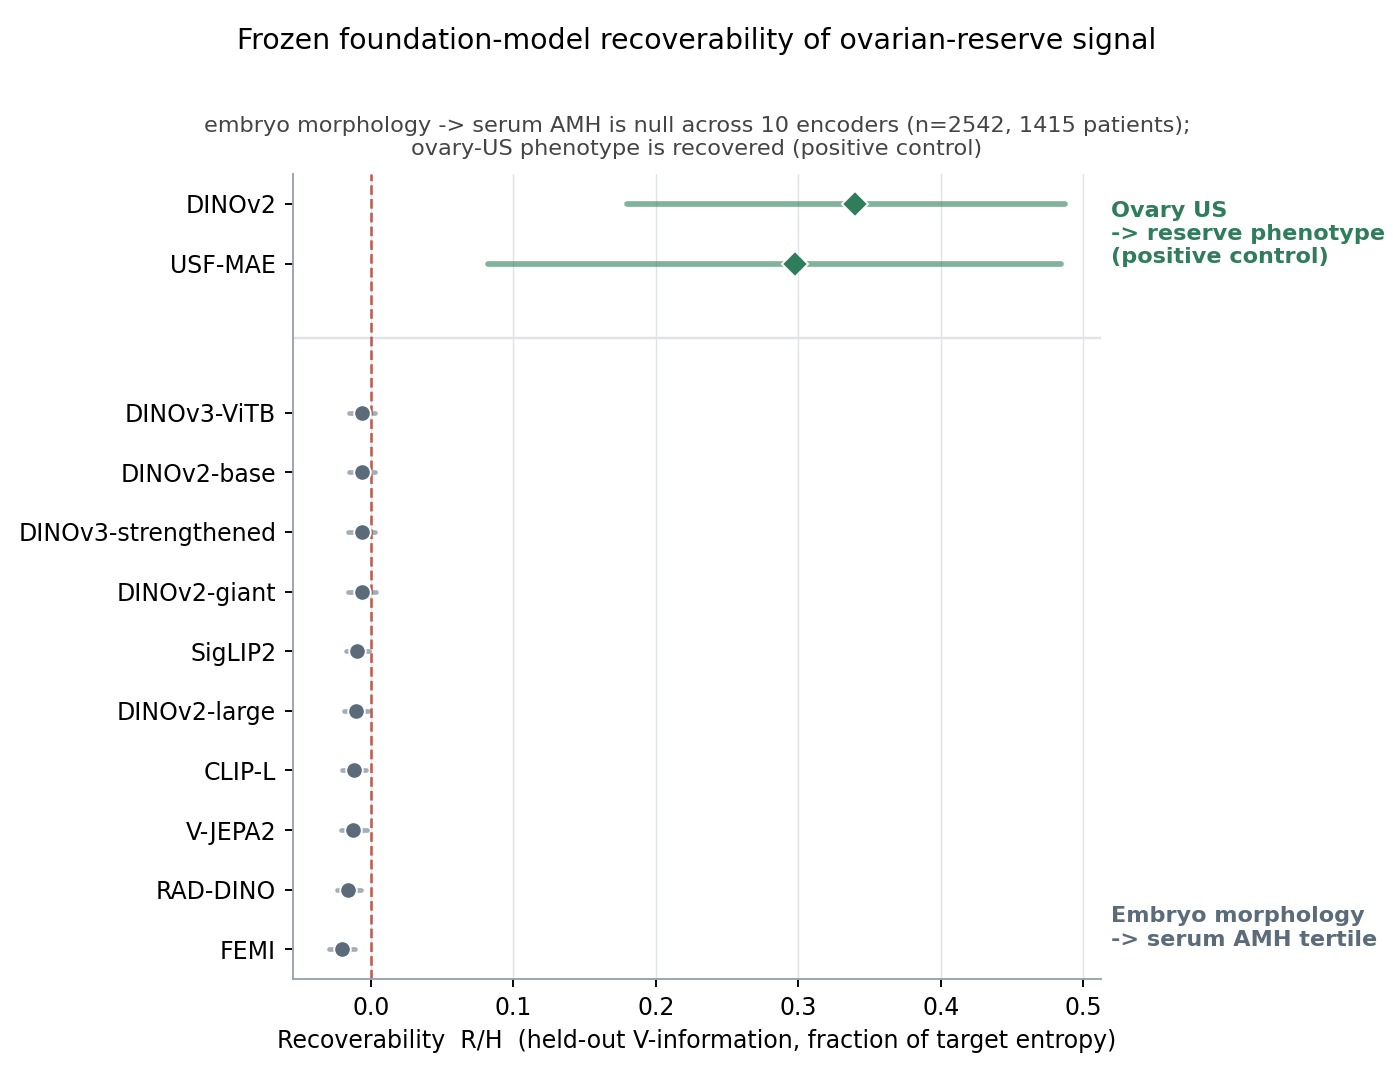
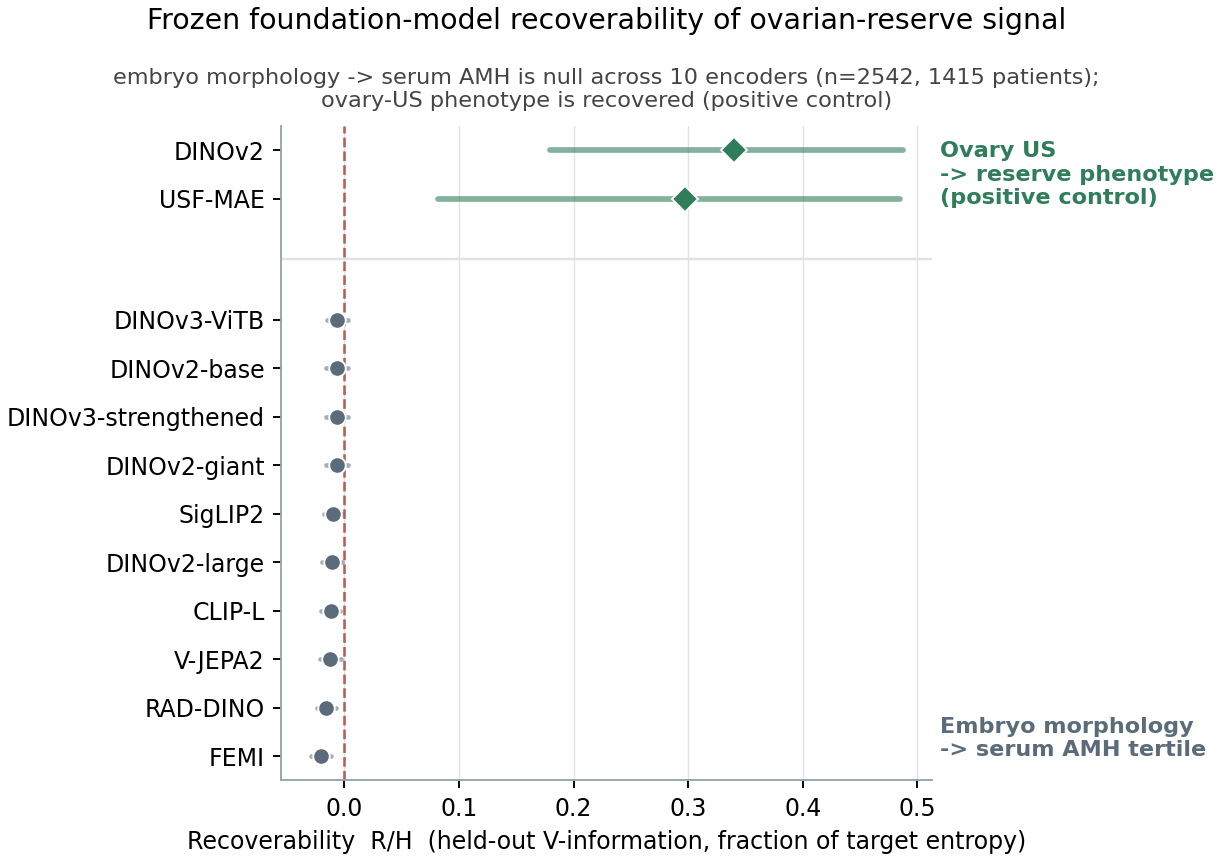
readme: embed result figures (atlas, conditional probing, encoder benchmark, forest) + add pyproject
- README now shows the recoverability atlas + the three key-finding figures inline
  (visualizing the numbers already stated; no new disclosure)
- add minimal pyproject.toml so 'pip install -e .' actually works; fix reserve_audit
  install path (referenced a non-existent local dir)
- update encoder-benchmark figure to current text-width version
- scope note: image-to-serum-AMH not claimed; MS thesis using this audit in preparation

diff --git a/README.md b/README.md
@@ -2,23 +2,43 @@
 
 This repository audits where AMH and ovarian-reserve information is recoverable from frozen foundation-model embeddings across public IVF-related data, including DINOv2, DINOv3, CLIP, USF-MAE, and related encoders. The analyses use predictive V-information probing, conditional age probing, control tasks, MDL summaries, and model-class sufficiency checks with TOST. The contribution is the target-separated audit protocol and the reusable `reserve_audit` package, not a new model.
 
+<p align="center">
+  <img src="figures/figure2_recoverability_atlas.png" width="760"><br>
+  <em>Target-separated recoverability atlas. Held-out fixed-linear recoverability R/H(Y), grouped by registered target kind. Rows are never ranked across target kinds; the ovary-US phenotype node is a phenotype positive control, not an ovary-to-serum-AMH test.</em>
+</p>
+
 ## Key Findings
 
-1. Two single-cohort age-conditioning results separate reserve-relevant and reserve-adjacent settings. In Brigham/Leahy endocrine trajectories, AMH-tertile recoverability changed from marginal `R/H=0.100225` to age-conditioned `R/H=0.087189`; the 2000-shuffle conditional permutation result was `p=0.0004997501249375312`. In Wang embryo morphology, AMH-tertile recoverability changed from marginal `R/H=0.004202` to age-conditioned `R/H=-0.000044`, with `p=0.597015`.
+**1. AMH-tertile recoverability depends on modality and survives age-conditioning only for endocrine trajectories.** In Brigham/Leahy endocrine trajectories, recoverability changed from marginal `R/H=0.100225` to age-conditioned `R/H=0.087189` (2000-shuffle conditional permutation `p=0.0004997501249375312`). In Wang embryo morphology it changed from marginal `R/H=0.004202` to age-conditioned `R/H=-0.000044` (`p=0.597015`).
 
-2. The same frozen-encoder pipeline recovers an ovary-US phenotype positive control: DINOv2 `R/H=0.3401` and USF-MAE `R/H=0.2974` on FUID. This makes the embryo result a measured boundary rather than a failed pipeline check.
+<p align="center">
+  <img src="figures/fig_conditional_probing.png" width="760"><br>
+  <em>Marginal vs age-conditioned R/H, and the Brigham conditional statistic against its 2000-shuffle age-permuted null.</em>
+</p>
 
-3. Clinical concordance points in the same direction. A 6-cohort AMH meta-analysis found a quantity-marker association of `r=0.4054` with 95% HKSJ CI `0.2833` to `0.5145` and `p=0.0005032429233777444`; the quality-marker pool was near zero at `r=0.0156` with 95% HKSJ CI `-0.0262` to `0.0575` and `p=0.35808119845986486`. Quantity effects were positive in 6/6 cohorts, while quality effects were near zero in 5/5 estimable cohorts.
+**2. The same frozen-encoder pipeline recovers an ovary-US phenotype positive control,** so the embryo result is a measured boundary rather than a failed pipeline check: DINOv2 `R/H=0.3401` and USF-MAE `R/H=0.2974` on FUID, while ten embryo encoders stay near zero for serum-AMH tertile.
+
+<p align="center">
+  <img src="figures/fig_encoder_benchmark.png" width="700"><br>
+  <em>Frozen-encoder benchmark: embryo-to-serum-AMH is null across encoders; ovary-US phenotype is recovered by the same V-information probe.</em>
+</p>
+
+**3. Clinical concordance points in the same direction.** A 6-cohort AMH meta-analysis found a quantity-marker association of `r=0.4054` (95% HKSJ CI `0.2833` to `0.5145`, `p=0.0005032429233777444`); the quality-marker pool was near zero at `r=0.0156` (95% HKSJ CI `-0.0262` to `0.0575`, `p=0.35808119845986486`). Quantity effects were positive in 6/6 cohorts; quality effects were near zero in 5/5 estimable cohorts.
+
+<p align="center">
+  <img src="figures/figure1_forest_plot.png" width="700"><br>
+  <em>AMH behaves as a quantity marker, not a per-embryo-quality marker, across IVF cohorts.</em>
+</p>
 
 These are modest aggregate effects. The age-conditioning results are single-cohort and adjust for age only. They should be read as a representation-analysis audit, not as an image-to-serum-AMH predictor.
 
 ## Repository Layout
 
 ```text
-reserve_audit/              reusable audit package
+reserve_audit/              reusable audit package (registry, recoverability, sufficiency, CLI)
 scripts/                    benchmark, hardening, verification, and figure generators
 results/diagnostics/        aggregate diagnostic JSON files used for the public claims
-figures/                    public figure generated from aggregate diagnostics
+figures/                    public figures generated from aggregate diagnostics
 requirements.txt            minimal Python dependencies
 ```
 
@@ -30,19 +50,14 @@ Install the minimal dependencies:
 pip install -r requirements.txt
 ```
 
-The diagnostics JSON files in `results/diagnostics/` back the numeric claims above. The public figure can be regenerated from the aggregate benchmark JSON:
+The diagnostics JSON files in `results/diagnostics/` back the numeric claims above. The encoder-benchmark figure regenerates from the aggregate benchmark JSON, and the benchmark values can be re-checked:
 
 ```bash
 python scripts/make_fig_encoder_benchmark.py
-```
-
-The benchmark-value check can be run with:
-
-```bash
 python scripts/verify_benchmark.py
 ```
 
-Raw cohort data and cached embeddings are not redistributed here because users should obtain those assets from their original sources and licenses. This release contains the protocol code, aggregate diagnostics, figure, and generators.
+Raw cohort data and cached embeddings are not redistributed here; users should obtain those assets from their original sources and licenses. This release contains the protocol code, aggregate diagnostics, figures, and generators.
 
 ## Data
 
@@ -50,4 +65,8 @@ Public cohorts used by the audit include Brigham/Leahy 2021, Mendeley 5k IVF, Wa
 
 ## Scope
 
-This is representation-analysis and probing methodology demonstrated on AMH and IVF; image-to-serum-AMH is future work gated on paired ovary-US plus continuous-AMH data.
+This is representation-analysis and probing methodology demonstrated on AMH and IVF. Image-to-serum-AMH recovery is future work gated on paired ovary-US plus continuous-AMH data, and is not claimed here. A master's thesis using this audit is in preparation.
+
+## License
+
+MIT (see `LICENSE`).

diff --git a/reserve_audit/README.md b/reserve_audit/README.md
@@ -4,10 +4,10 @@ Reusable audit harness for target-separated AMH-IVF recoverability checks.
 
 ## Install
 
-From `code/repos/kromp-blastocyst-dataset-audit`:
+From the repository root:
 
 ```bash
-python -m pip install -e .
+pip install -e .
 ```
 
 The library is dependency-light: `numpy`, `pandas`, `scipy`, and `scikit-learn`.